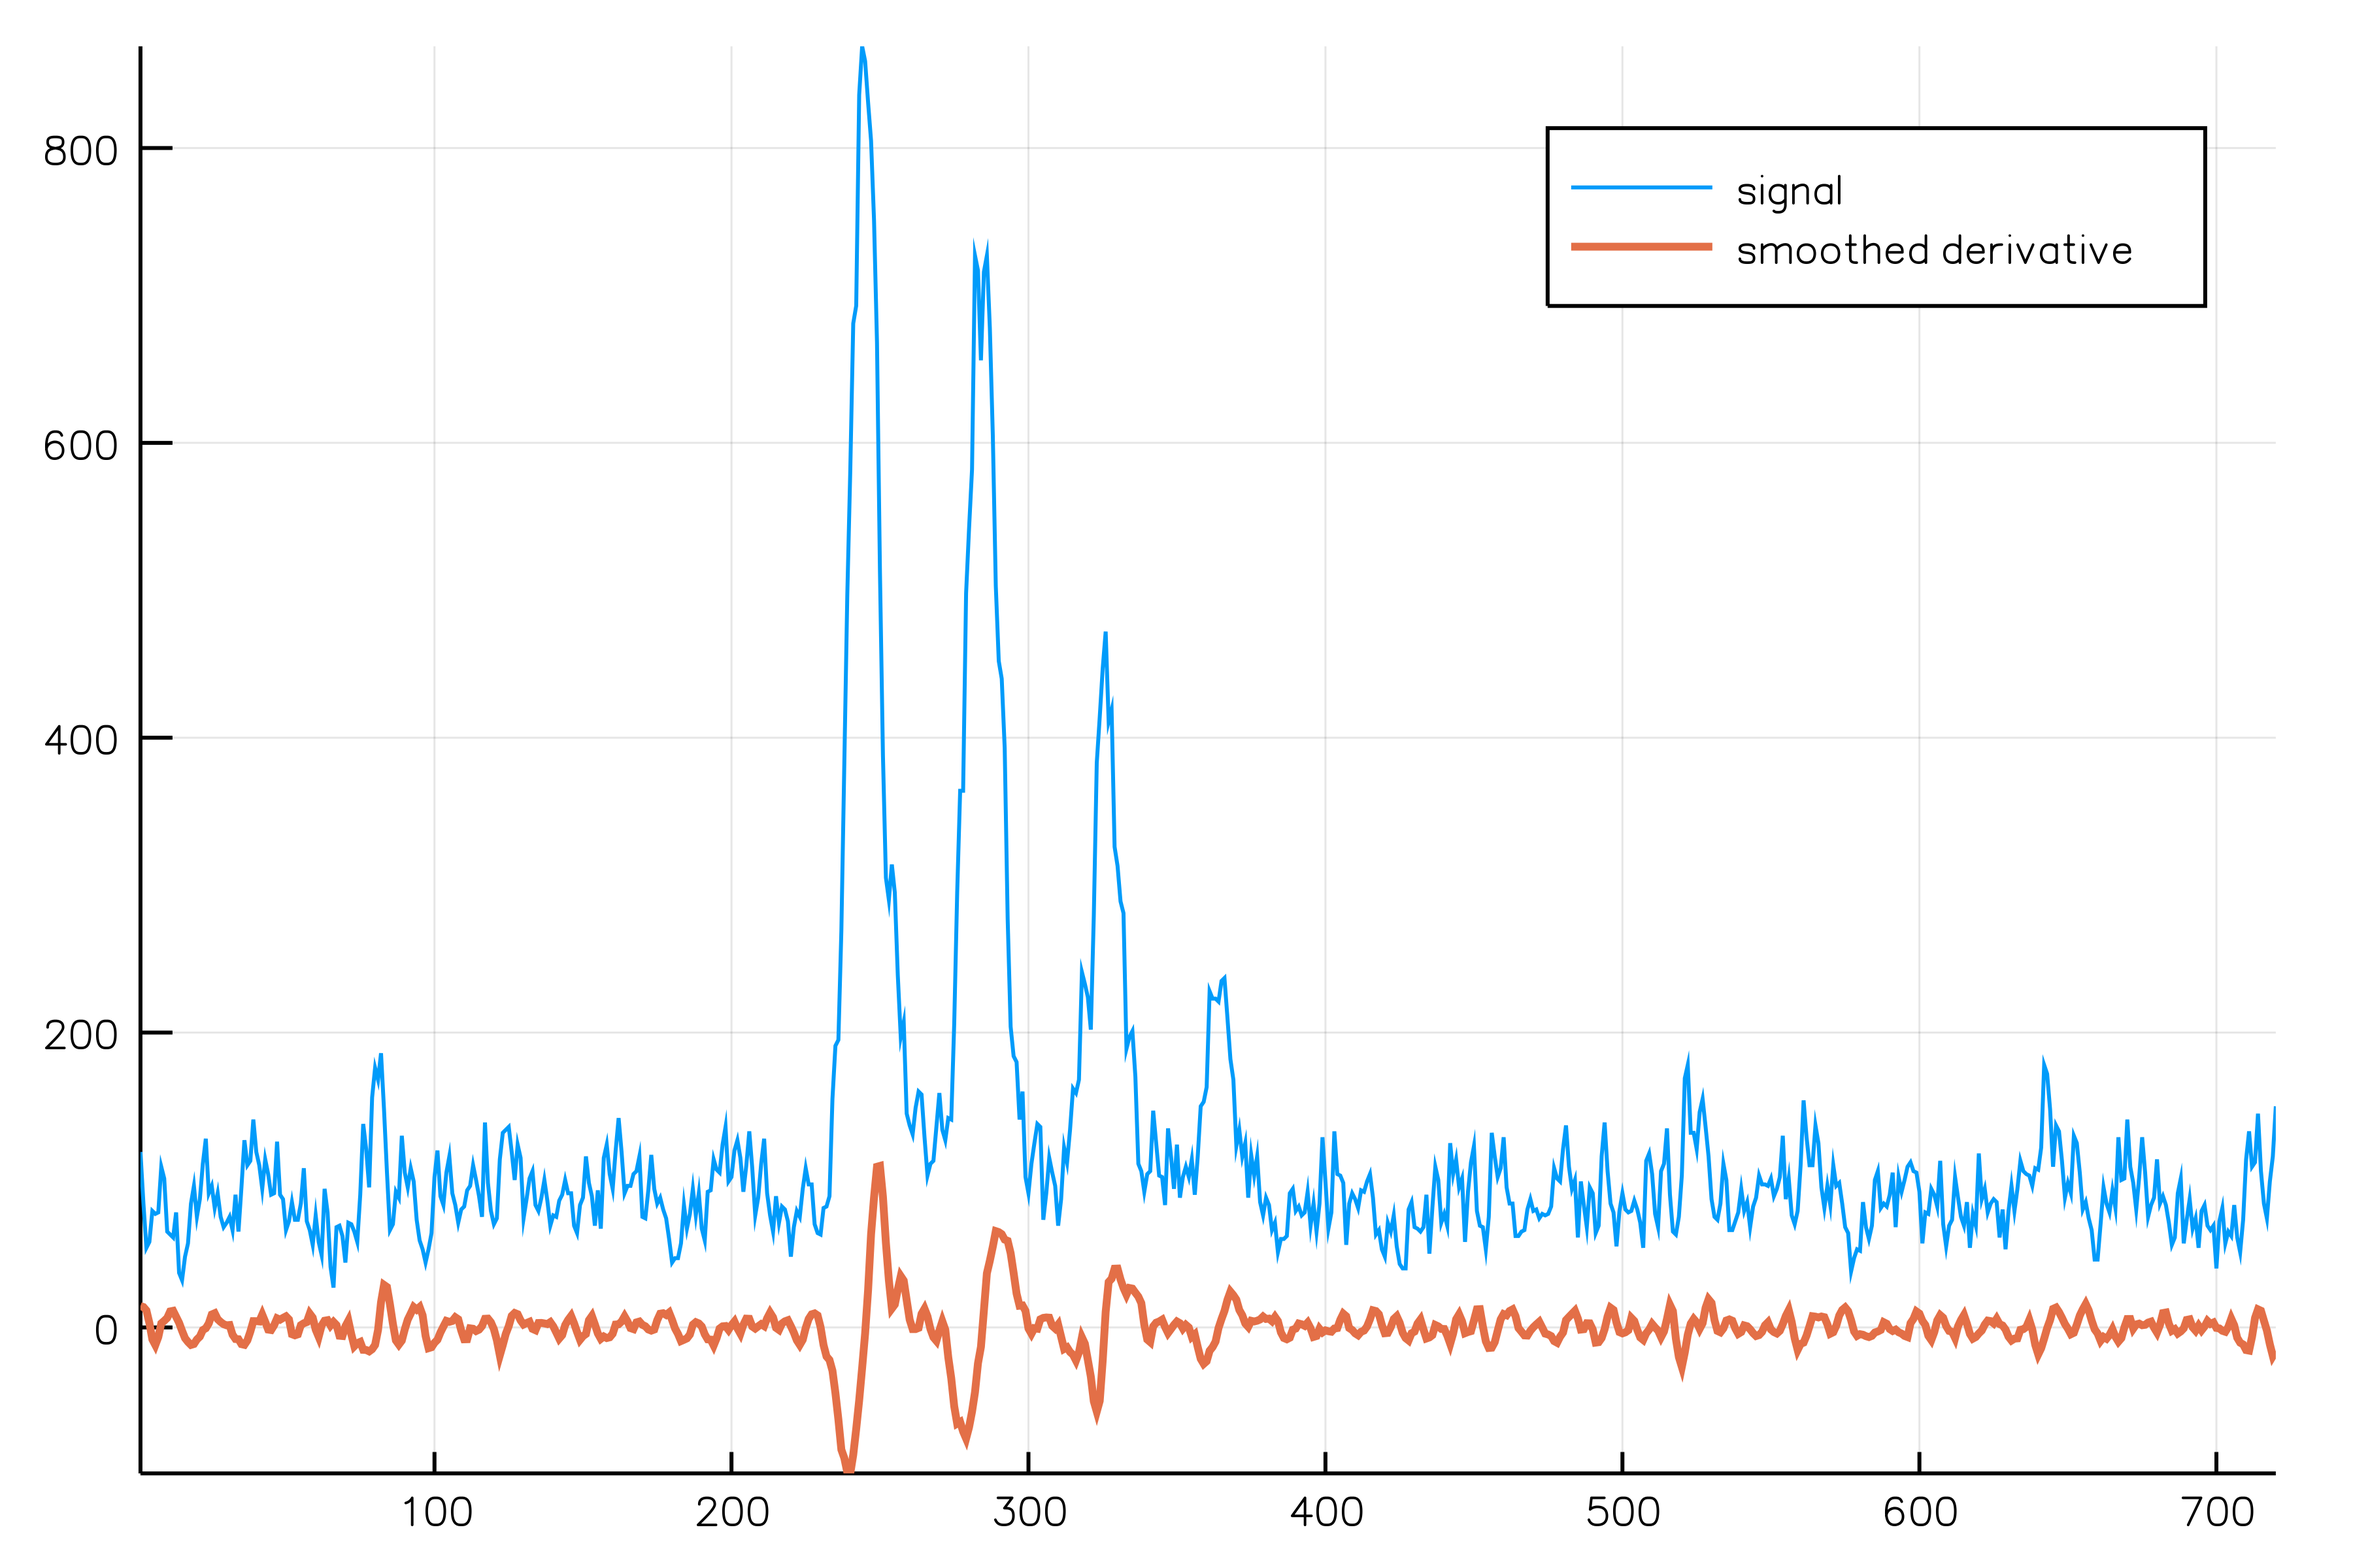
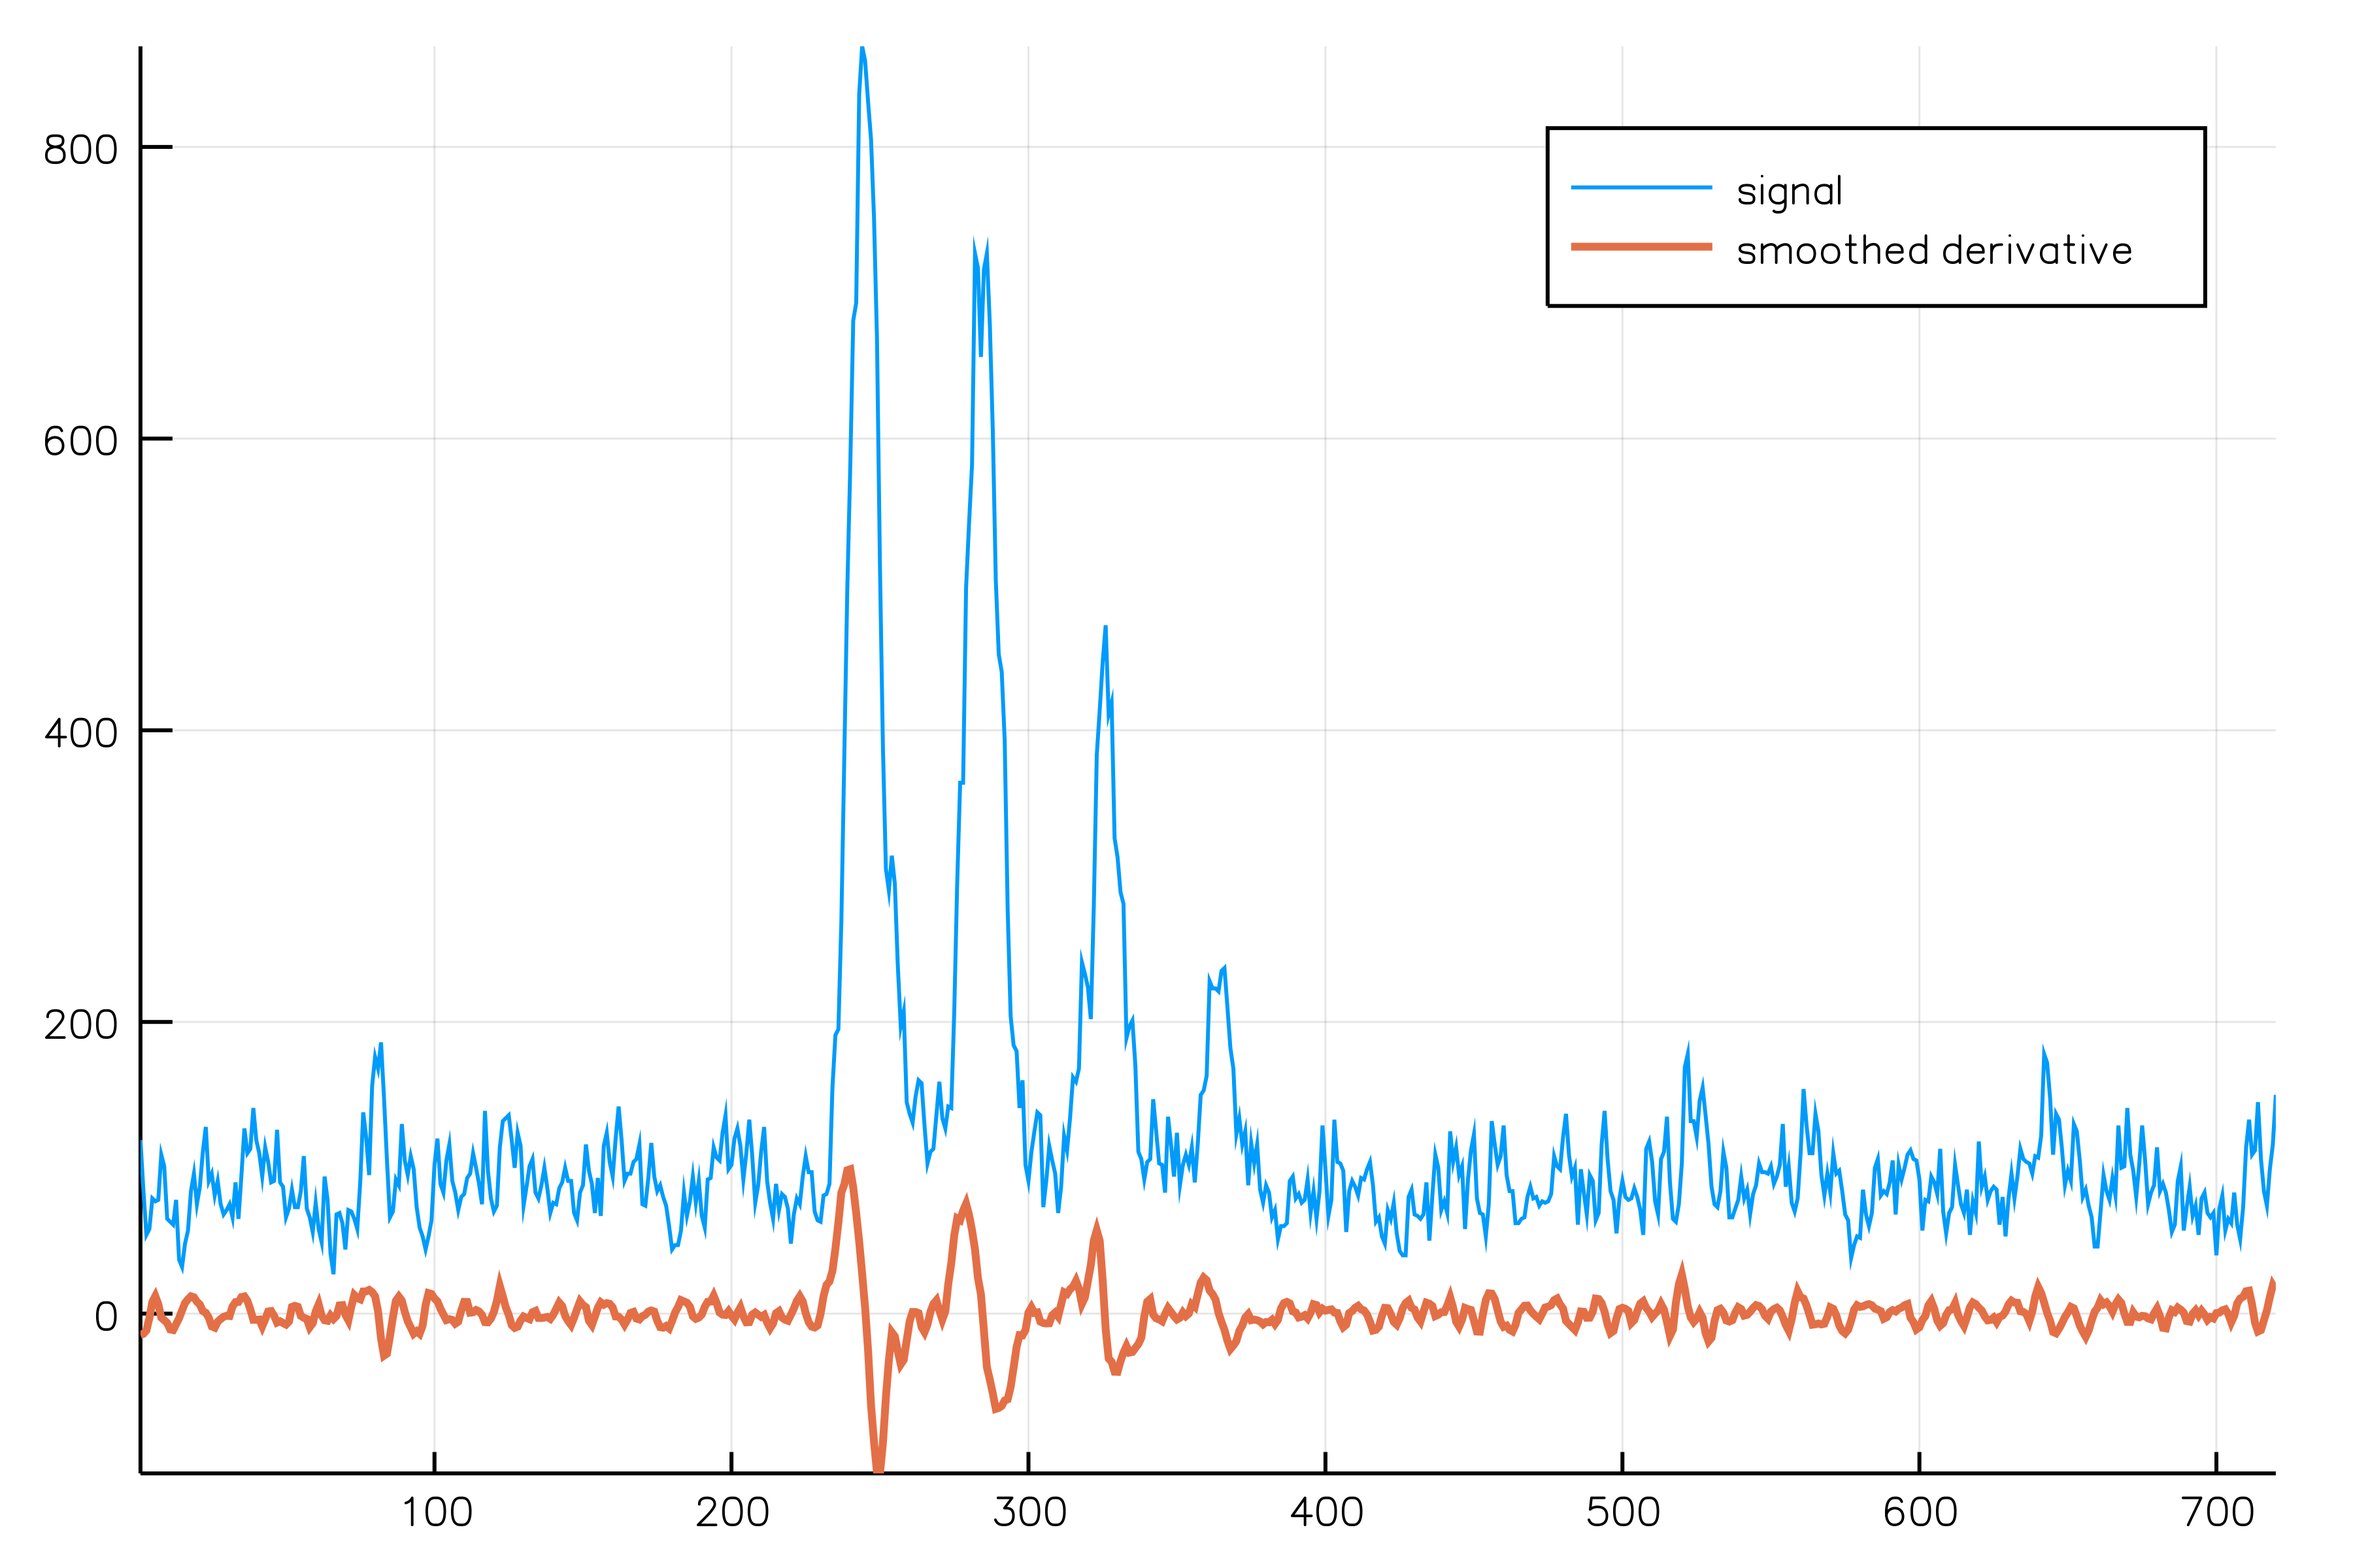
Fix sg doc (wrong sign) + doc improvement

Changed region(s): [[0.0622, 0.6875, 0.9644, 0.9375], [0.0311, 0.625, 0.0622, 0.6875], [0.4978, 0.625, 0.5289, 0.6562]]

diff --git a/docs/use_cases/sg.html b/docs/use_cases/sg.html
@@ -3,7 +3,7 @@
 "http://www.w3.org/TR/xhtml1/DTD/xhtml1-strict.dtd">
 <html xmlns="http://www.w3.org/1999/xhtml" lang="en" xml:lang="en">
 <head>
-<!-- 2018-04-15 Sun 12:29 -->
+<!-- 2018-04-25 Wed 09:00 -->
 <meta http-equiv="Content-Type" content="text/html;charset=utf-8" />
 <meta name="viewport" content="width=device-width, initial-scale=1" />
 <title>Savitzky-Golay filters</title>
@@ -331,21 +331,26 @@ for the JavaScript code in this tag.
 <h2>Table of Contents</h2>
 <div id="text-table-of-contents">
 <ul>
-<li><a href="#org0e9359c">1. Savitzky-Golay filters</a>
+<li><a href="#orgbe38d61">1. Savitzky-Golay filters</a>
 <ul>
-<li><a href="#orgb3d92f9">1.1. Smoothing example</a></li>
-<li><a href="#org3248f65">1.2. First order smoothed derivative</a></li>
+<li><a href="#org312c077">1.1. Smoothing example</a></li>
+<li><a href="#orga786599">1.2. First order smoothed derivative</a>
+<ul>
+<li><a href="#org45b71e3">1.2.1. <code>directConv</code> instead of <code>directCrossCorrelation</code></a></li>
+</ul>
+</li>
 </ul>
 </li>
 </ul>
 </div>
 </div>
 
-<div id="outline-container-org0e9359c" class="outline-2">
-<h2 id="org0e9359c"><span class="section-number-2">1</span> Savitzky-Golay filters</h2>
+<div id="outline-container-orgbe38d61" class="outline-2">
+<h2 id="orgbe38d61"><span class="section-number-2">1</span> Savitzky-Golay filters</h2>
 <div class="outline-text-2" id="text-1">
 <p>
-Creates a set of Savitzky-Golay filters, window width is \(11=2*5+1\) and polynomial degree is \(3\).
+Creates a set of Savitzky-Golay filters. In this example, window width
+is \(11=2*5+1\) and polynomial degree is \(3\).
 </p>
 
 <div class="org-src-container">
@@ -386,7 +391,8 @@ p=plot!(range(d2filter),fcoef(d2filter),markershape = <span style="color: #483d8
 </div>
 
 
-<div class="figure">
+
+<div id="orgb33cd17" class="figure">
 <p><img src="sg_figures/filter_coef.png" alt="filter_coef.png" align="center" width="600px" />
 </p>
 <p><span class="figure-number">Figure 1: </span>Savitzky-Golay filters</p>
@@ -402,14 +408,13 @@ Maximum derivative order is equal to the polynomial order, however there is a de
 </pre>
 </div>
 
-<div class="org-src-container">
-<pre class="src src-julia">3
+<pre class="example">
+3
 </pre>
 </div>
-</div>
 
-<div id="outline-container-orgb3d92f9" class="outline-3">
-<h3 id="orgb3d92f9"><span class="section-number-3">1.1</span> Smoothing example</h3>
+<div id="outline-container-org312c077" class="outline-3">
+<h3 id="org312c077"><span class="section-number-3">1.1</span> Smoothing example</h3>
 <div class="outline-text-3" id="text-1-1">
 <p>
 First load a signal 
@@ -426,7 +431,7 @@ then compute a smoothed version
 </p>
 
 <div class="org-src-container">
-<pre class="src src-julia">smoothed=directConv(d0filter,signal,ConstantBE,ConstantBE)
+<pre class="src src-julia">smoothed=directCrossCorrelation(d0filter,signal,ConstantBE,ConstantBE)
 
 p=plot(signal,label=<span style="color: #8b2252;">"signal"</span>)
 p=plot!(smoothed, label=<span style="color: #8b2252;">"smoothed"</span>,linewidth=2)
@@ -440,19 +445,29 @@ p=plot!(signal-smoothed, label=<span style="color: #8b2252;">"residue"</span>)
 </p>
 <p><span class="figure-number">Figure 2: </span>Savitzky-Golay smoothing</p>
 </div>
+
+
+<p>
+<b>Caveat:</b> to apply Savitzky-Golay one must use
+ <code>directCrossCorrelation</code> and not <code>directConv</code>, otherwise the filter
+ coefficients are taken in the reversed order. This has no impact on
+ smoothing because the filters are symmetric, but this would change
+ the sign of the smoothed odd-order (\(f'\), \(f'''\)&#x2026;) derivatives that
+ have antisymmetric filter coefficients. You can see Fig. <a href="#orgb33cd17">Filter
+ coefficients</a> and see this <a href="#org45b71e3">detailed illustration</a>.
+</p>
 </div>
 </div>
 
-
-<div id="outline-container-org3248f65" class="outline-3">
-<h3 id="org3248f65"><span class="section-number-3">1.2</span> First order smoothed derivative</h3>
+<div id="outline-container-orga786599" class="outline-3">
+<h3 id="orga786599"><span class="section-number-3">1.2</span> First order smoothed derivative</h3>
 <div class="outline-text-3" id="text-1-2">
 <p>
 Smoothed first order derivative example:
 </p>
 
 <div class="org-src-container">
-<pre class="src src-julia">smoothed_d1 = directConv(d1filter,signal,ConstantBE,ConstantBE)
+<pre class="src src-julia">smoothed_d1 = directCrossCorrelation(d1filter,signal,ConstantBE,ConstantBE)
 
 p=plot(signal,label=<span style="color: #8b2252;">"signal"</span>)
 p=plot!(smoothed_d1, label=<span style="color: #8b2252;">"smoothed derivative"</span>,linewidth=2)
@@ -466,12 +481,37 @@ p=plot!(smoothed_d1, label=<span style="color: #8b2252;">"smoothed derivative"</
 <p><span class="figure-number">Figure 3: </span>Savitzky-Golay smoothed first order derivative</p>
 </div>
 </div>
+
+<div id="outline-container-org45b71e3" class="outline-4">
+<h4 id="org45b71e3"><a id="ID-dc04c037-ea1f-4abc-8468-8684f66881b6"></a><span class="section-number-4">1.2.1</span> <code>directConv</code> instead of <code>directCrossCorrelation</code></h4>
+<div class="outline-text-4" id="text-1-2-1">
+<p>
+This is what happens if we use <code>directConv</code> instead of
+<code>directCrossCorrelation</code>, \(f'\) has the wrong sign.
+</p>
+
+<div class="org-src-container">
+<pre class="src src-julia">smoothed_d1_with_conv = directConv(d1filter,signal,ConstantBE,ConstantBE)
+
+p=plot(signal,label=<span style="color: #8b2252;">"signal"</span>)
+p=plot!(smoothed_d1_with_conv, label=<span style="color: #8b2252;">"smoothed derivative (wrong sign)"</span>,linewidth=2)
+</pre>
+</div>
+
+
+<div class="figure">
+<p><img src="sg_figures/sg_d1_wrongSign.png" alt="sg_d1_wrongSign.png" align="center" width="600px" />
+</p>
+<p><span class="figure-number">Figure 4: </span>Savitzky-Golay with <code>directConv</code> instead of <code>directCrossCorrelation</code> results in wrong sign for odd-order derivatives</p>
+</div>
+</div>
+</div>
 </div>
 </div>
 </div>
 <div id="postamble" class="status">
 <p class="author">Author: picaud</p>
-<p class="date">Created: 2018-04-15 Sun 12:29</p>
+<p class="date">Created: 2018-04-25 Wed 09:00</p>
 <p class="validation"><a href="http://validator.w3.org/check?uri=referer">Validate</a></p>
 </div>
 </body>
